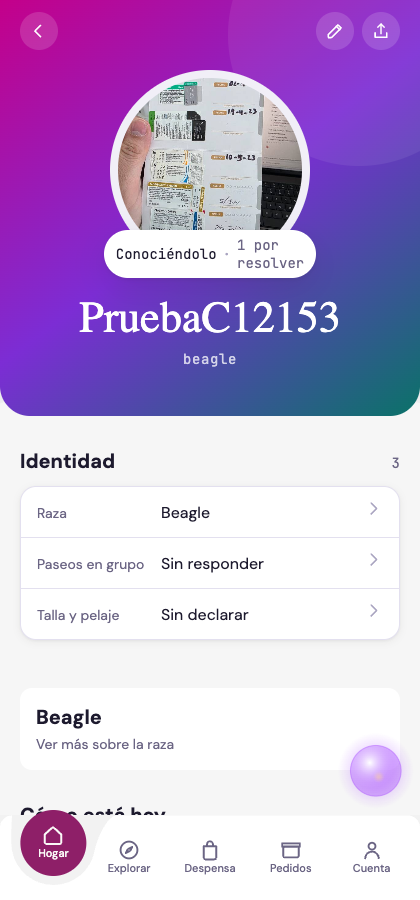
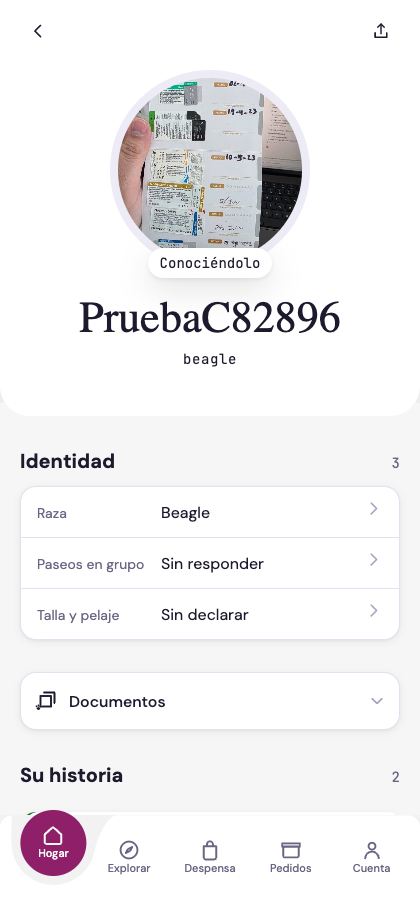
S113-C · 1.2 · C11 de punta a punta, el carnet ejercido, y dos defectos que sólo aparecen caminando
C11 · LA DESPEDIDA, COMPLETA
RPC 200 · {"ok":true,"estado_vida":"fallecida","ya_estaba":false}, y verificado
en la base: la mascota queda `fallecida`. La ficha deja de pedir, el menú de
edición desaparece, la ficha de raza se apaga. Antes con todo, después memorial.

🔴 EL LÁPIZ SE DIBUJABA EN MEMORIAL Y NO HACÍA NADA
La Hoja del menú ya colgaba del guard; el botón que la abre, no. Un control que
se ve, se toca y no hace nada es peor que uno ausente: el ausente no promete.
Ningún gate lo veía — `verify:pide-en-memorial` mide TEXTOS que piden algo, y
«Editar» no pide nada. Sólo apareció al despedir una mascota de verdad.

☠ MI PUENTE POR EL CATÁLOGO SE FUE ENTERO
A se llevó los tres pasos al servidor (`resolver_ficha_de_raza`), y su razón es
la misma ley que hoy mató a `esDudosa`: repartir la regla entre cliente y
servidor es la segunda definición de «igual». Y además el tercer paso ESCRIBE,
así que mi mitad habría dejado sin registrar lo que no casó. Un viaje, una
verdad. Se le pasa lo que la familia tecleó y nada más.

🔴 EL CARNET, EJERCIDO EN PANTALLA — y la reconciliación tenía un hueco
Con la edge y el wrapper hablando igual, el carnet real del founder LEE: 7
filas, el botón apagado con su razón a la vista. Pero ninguna fila decía qué le
faltaba: la pieza cuelga su aviso DEL CAMPO VACÍO, y mi `camposDe` filtraba
todos los vacíos. Mi filtro y la pieza se contradecían, y el resultado era el
mismo síntoma del bloqueante del founder — una cuenta que nadie podía ver.
[…]

diff --git a/apps/cliente/src/app/(tabs)/hogar/mascota/[mascotaId].tsx b/apps/cliente/src/app/(tabs)/hogar/mascota/[mascotaId].tsx
@@ -351,19 +351,16 @@ export default function PerfilDeMascota() {
     const raza = perfil.mascota.raza;
     if (raza === null || raza === '') return;
     let vivo = true;
-    /* 🔴 **DOS SALTOS, Y EL PRIMERO NO SE PUEDE SALTEAR.** `mascotas.raza`
-       guarda el NOMBRE en texto libre («Beagle»); `razas_contenido` se indexa
-       por CÓDIGO («beagle»). Medido: `cat_razas.slug` casa **13 de 13** con
-       `raza_codigo`, y `nombre_norm` sólo **5 de 13** ⇒ *normalizar el texto a
-       mano acertaría a veces, que es peor que fallar siempre: nadie sabría
-       cuándo*. Se pasa por el catálogo, que es la única fuente del par. */
-    void obtenerRazasDeEspecie(perfil.mascota.especie).then((cat) => {
-      if (!vivo || !cat.ok) return;
-      const enCat = cat.data.find((x) => x.nombre.toLowerCase() === raza.toLowerCase());
-      if (enCat === undefined) return; // raza escrita a mano: no hay ficha que buscar
-      void obtenerContenidoDeRaza(perfil.mascota.especie, enCat.slug).then((r) => {
-        if (vivo && r.ok) setContenidoRaza(r.data);
-      });
+    /* ☠ **ACÁ VIVÍAN DOS SALTOS Y SE FUERON ENTEROS.** Yo resolvía el
+       nombre contra `cat_razas` para sacar el slug, porque `mascotas.raza` es
+       texto libre y `razas_contenido` se indexa por código. **A se lo llevó al
+       servidor** (`resolver_ficha_de_raza`): casa por nombre, por sinónimo, y
+       cae a la ficha de la especie — *y el tercer paso ESCRIBE*, así que
+       repartirlo entre cliente y servidor habría dejado la mitad sin registrar.
+       **Un viaje, una verdad**, que es la misma ley que hoy mató a `esDudosa`
+       en el carnet. Se le pasa lo que la familia tecleó y nada más. */
+    void obtenerContenidoDeRaza(perfil.mascota.especie, raza).then((r) => {
+      if (vivo && r.ok) setContenidoRaza(r.data);
     });
     return () => {
       vivo = false;
@@ -980,6 +977,16 @@ export default function PerfilDeMascota() {
                   </Svg>
                 </Pressable>
                 <View style={{ flexDirection: 'row', gap: spacing[2] }}>
+                  {/* 🔴 **EL LÁPIZ CUELGA DE `!esMemorial`, Y LO ENCONTRÉ
+                      CORRIENDO LA DESPEDIDA DE VERDAD.** La Hoja del menú ya
+                      estaba bajo el guard, pero **el botón que la abre no**:
+                      en memorial se dibujaba y al tocarlo **no pasaba nada**.
+                      *Un control que se ve, se toca y no hace nada es peor que
+                      uno ausente: el ausente no promete.* Ningún gate lo veía
+                      —`verify:pide-en-memorial` mide TEXTOS que piden algo, y
+                      «Editar» no pide nada— así que sólo apareció al ejercer
+                      el camino entero sobre una mascota real. */}
+                  {!esMemorial ? (
                   <Pressable
                     accessibilityRole="button"
                     accessibilityLabel={t('perfil.editar')}
@@ -1000,6 +1007,7 @@ export default function PerfilDeMascota() {
                         incompleta. */}
                     <Icono nombre="lapiz" tamano={20} tinta={sobreMarca} />
                   </Pressable>
+                  ) : null}
                   <Pressable
                     accessibilityRole="button"
                     accessibilityLabel={t('perfil.compartir')}

diff --git a/apps/cliente/src/app/carnet.tsx b/apps/cliente/src/app/carnet.tsx
@@ -302,13 +302,26 @@ function camposDe(
   i: ItemRevision,
   t: ReturnType<typeof useTraduccion>['t'],
 ): { etiqueta: string; valor: string | null }[] {
-  return [
+  const todos = [
     { etiqueta: t('carnet.campoAplicada'), valor: i.fecha_aplicada },
     { etiqueta: t('carnet.campoProxima'), valor: i.fecha_proxima },
     { etiqueta: t('carnet.campoTipo'), valor: i.tipo_vacuna },
     { etiqueta: t('carnet.campoLote'), valor: i.lote },
     { etiqueta: t('carnet.campoVeterinario'), valor: i.veterinario },
-  ].filter((c) => c.valor !== null && c.valor.trim() !== '');
+  ];
+  const tiene = (c: { valor: string | null }) => c.valor !== null && c.valor.trim() !== '';
+  /* 🔴 **EL CAMPO QUE FALTA SE DEJA PASAR, Y SÓLO ÉSE.** Medido en pantalla con
+     el carnet real: la pieza cuelga su aviso **del campo vacío** —lo dibuja con
+     borde de atención y el texto debajo—, así que filtrar todos los vacíos
+     dejaba la fila **muda**: el pie decía «faltan 3» y ninguna fila lo decía.
+     *Mi filtro y la pieza se contradecían, y el resultado era el mismo síntoma
+     del bloqueante del founder: una cuenta que nadie podía ver.*
+     Pasa **uno**: la fecha aplicada cuando es lo que falta. Los otros cuatro
+     vacíos siguen fuera — con los cinco, una fila sin fecha mostraba **tres
+     casillas de fecha** y *tres casillas para un dato no piden tres veces:
+     hacen dudar de cuál es la buena.* */
+  const falta = faltaParaConfirmar(i) === 'fecha';
+  return todos.filter((c) => tiene(c) || (falta && c.etiqueta === t('carnet.campoAplicada')));
 }
 
 // ── B4/B5 · guardar ────────────────────────────────────────────────────────
